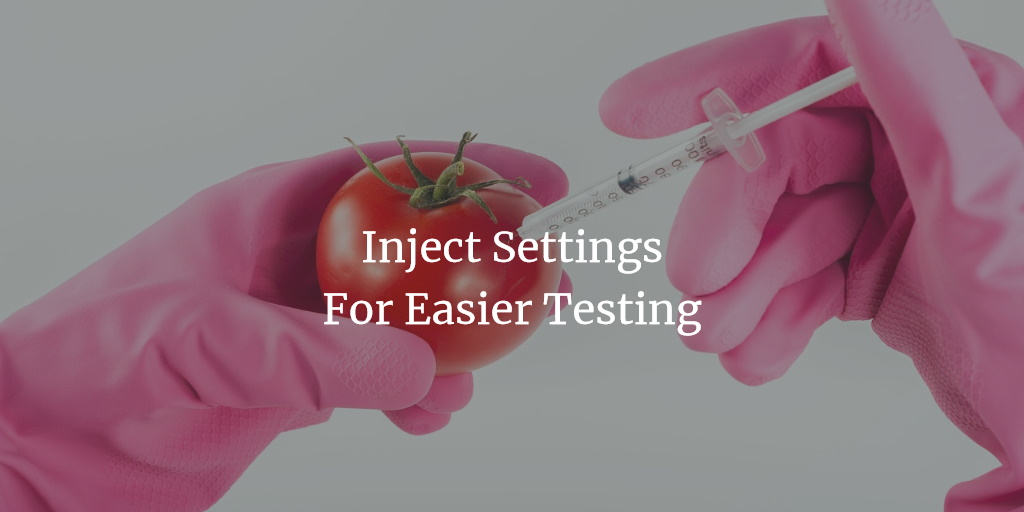
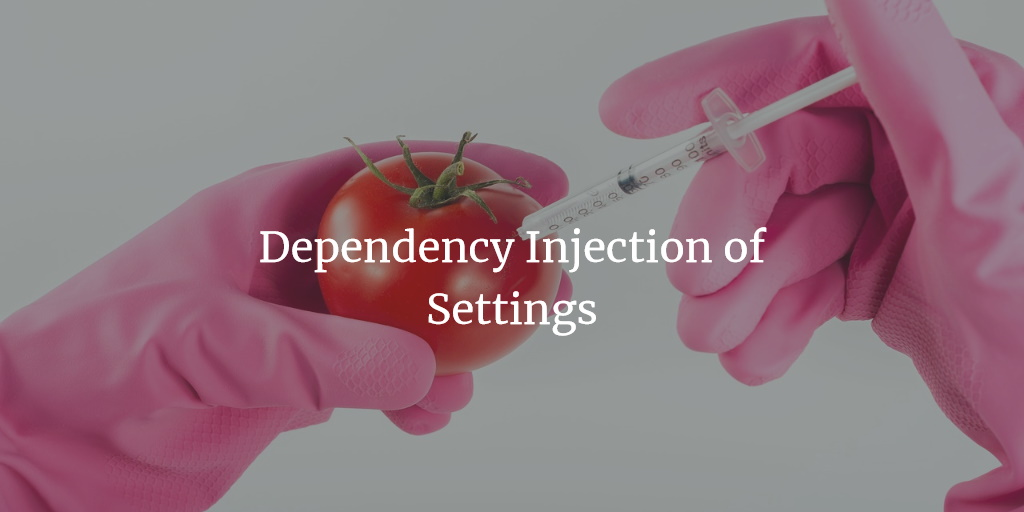
Completing DI post

Changed region(s): [[0.25, 0.4375, 0.75, 0.5312], [0.3125, 0.5625, 0.6875, 0.6562]]

diff --git a/content/blog/2021-12-30-inject-settings.md b/content/blog/2021-12-30-inject-settings.md
@@ -1,12 +1,10 @@
 ---
-title: "Inject Settings for Easier Testing"
-description: "Using Dependency Injection for Application Settings"
-date: "2021-12-29T08:00:00-06:00"
+title: "Dependency Injection of AppSettings in ASP.NET Core"
+description: "Use Dependency Injection for Application Settings. This can be appSettings.json in ASP.NET Core or web.config settings in .NET Framework 4.X."
+date: "2021-12-30T08:00:00-06:00"
 images: [/images/posts/inject-settings.jpg]
-tags:
-  - "dependency injection"
-  - "testing"
-draft: true
+tags: ["Dependency Injection", "Testing"]
+draft: false
 ---
 When talking about the [Dependency Inversion Principle](https://stackify.com/dependency-inversion-principle/), the `D` in [SOLID](https://simple.wikipedia.org/wiki/SOLID_(object-oriented_design)), we have a pretty good idea what dependencies we're trying to abstract away. `OrderRepository` or `SendGridEmailClient` are easy examples of implementations we should abstract away. It also overlaps well with the Single Responsibility Principle, since data access for orders and sending emails are separated from the business logic where they are used. The C# implementation of this would involve making these classes implement the appropriate interfaces, e.g. `IOrderRepository` and `IEmailSender`.
 
@@ -97,7 +95,7 @@ If you're running a console application or a Windows Service, your registration 
 
 ### .NET Core
 
-The `appsettings.json` file in .NET Core is much more flexible than `AppSettings` in `web.config`. You can have more complexed objects, with sub classes, and even collections. The process is similar:
+The `appSettings.json` file in .NET Core is much more flexible than `AppSettings` in `web.config`. You can have more complex objects, with sub classes, and even collections. The process is similar:
 
 - Define a POCO that maps to your settings file.
 - Map the settings from the file to the class
@@ -161,11 +159,9 @@ var settings = configuration.GetSection("Settings").Get<Settings>(); // to bind 
 services.AddSingleton(settings); // register this instance.
 ```
 
-I find this a more straight forward implementaiton.
+I find this a more straight forward implementation, if I don't need the added benefits of `IOptions`.
 
 ### Reusability
-
-
 
 ```c#
 public static IServiceCollection BindSettings<T>(this IServiceCollection services, IConfiguration configuration, string section = null) where T : class, new()
@@ -186,10 +182,7 @@ public static IServiceCollection BindSettings<T>(this IServiceCollection service
 
 This extension method will allow easy registration of settings.
 
-
-
 ### References
 
 - [Easy Configuration Binding in ASP.NET Core - revisited](https://weblog.west-wind.com/posts/2017/Dec/12/Easy-Configuration-Binding-in-ASPNET-Core-revisited)
-
 - [Options Pattern In .NET – IOptions, IOptionsSnapshot, IOptionsMonitor](https://thecodeblogger.com/2021/04/21/options-pattern-in-net-ioptions-ioptionssnapshot-ioptionsmonitor/)
